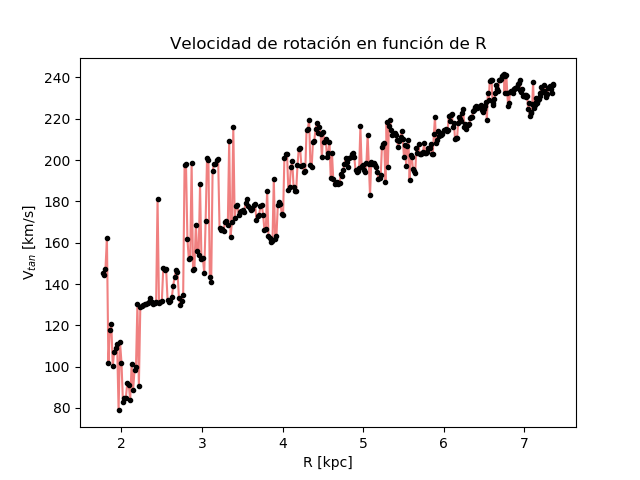
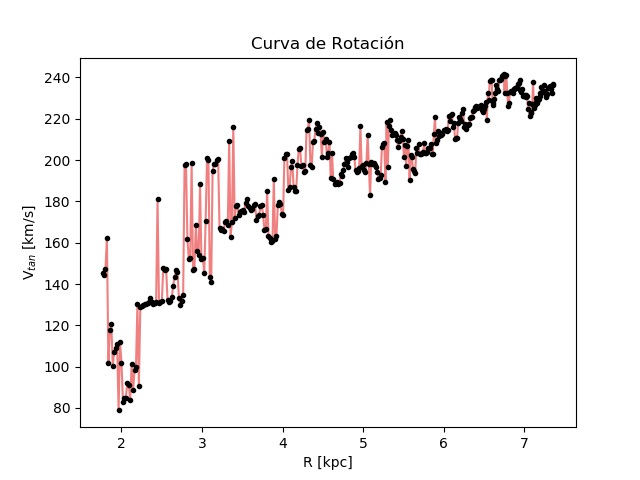
agrega 2da curva de rotación

Changed region(s): [[0.25, 0.0625, 0.75, 0.125]]

diff --git a/Tarea 2/códigoT2.py b/Tarea 2/códigoT2.py
@@ -64,12 +64,13 @@ def fmin(l,latitud,vs):
                 vs[q]=velocidad[w]    #guardamos la primera v donde T mayor a 5rms
                 break
 
-vmin=np.zeros(385)
-bvmin=np.zeros(385)
+vmin = np.zeros(385)
+bvmin = np.zeros(385)
 R = np.zeros(385)
 Z = np.zeros(385)
-R0=8.5 #kPc
-vsol=220
+R0 = 8.5 #kPc
+vsol = 220
+omegasol = vsol/R0
 
 #maximorum
 # Se recorren las longitudes y se busca la velocidad más negativa (mayor en modulo), se guarda esta
@@ -99,16 +100,29 @@ vR = np.zeros(385)
 for i in range(385):
     vR[i] = vmin[i]*(np.abs(np.sin(longitud[i]*np.pi/180.))/np.sin(longitud[i]*np.pi/180.)) + np.abs(vsol*np.sin(longitud[i]*np.pi/180.))
 
+omegaR = np.zeros(385)
+for i in range(385):
+    omegaR[i] = vR[i]/R[i] + omegasol
 '''
 CURVA DE ROTACIÓN
 '''
 plt.plot(R,vR, 'lightcoral')
 plt.plot(R,vR, 'k.')
 plt.grid
-plt.title("Velocidad de rotación en función de R")
+plt.title("Curva de Rotación")
 plt.xlabel("R [kpc]")
 plt.ylabel(r"V$_{tan}$ [km/s]")
-plt.savefig('curva.png')
+# plt.savefig('curva.png')
+plt.show()
+
+plt.plot(R, omegaR, 'lightcoral')
+plt.plot(R, omegaR, 'k.')
+plt.grid
+plt.title("Curva de Rotación")
+plt.xlabel("R [kpc]")
+plt.ylabel(r"$\omega_{tan}$ [rad/s]")
+# plt.savefig('curva2.png')
+plt.show()
 
 
 
@@ -138,14 +152,14 @@ def disco_uniforme_masapuntual(R, s, M0):
     v = np.sqrt(G*M/R)
     return v
 
-G=4.302e-6
+G = 4.302e-6   # kpc/Msun*(km**2/s**2)
 
 
-mpuntual1,covmpuntual1 = curve_fit(masa_puntual, R, vR)
-mpuntual2,covmpuntual2 = curve_fit(esfera_uniforme, R, vR)
-mpuntual3,covmpuntual3 = curve_fit(esfera_uniforme_masapuntual, R, vR)
-mpuntual4,covmpuntual4 = curve_fit(disco_uniforme, R, vR)
-mpuntual5,covmpuntual5 = curve_fit(disco_uniforme_masapuntual, R, vR)
+m1,covm1 = curve_fit(masa_puntual, R, vR)
+m2,covm2 = curve_fit(esfera_uniforme, R, vR)
+m3,covm3 = curve_fit(esfera_uniforme_masapuntual, R, vR)
+m4,covm4 = curve_fit(disco_uniforme, R, vR)
+m5,covm5 = curve_fit(disco_uniforme_masapuntual, R, vR)
 
 fig = plt.figure(figsize= (5, 10))
 ax1 = fig.add_subplot(5,1,1)
@@ -157,23 +171,23 @@ ax5 = fig.add_subplot(5,1,5, sharex = ax1)
 
 ax1.plot(R,vR,'lightcoral',label='datos')
 # ax1.plot(R,vR,'r-',label='datos')
-ax1.plot(R,masa_puntual(R,mpuntual1[0]),'k',label='masa puntual')
+ax1.plot(R,masa_puntual(R,m1[0]),'k',label='masa puntual')
 
 ax2.plot(R,vR,'lightcoral',label='datos')
 # ax2.plot(R,vR,'r-',label='datos')
-ax2.plot(R,esfera_uniforme(R,mpuntual2[0]),'k',label='esfera uniforme')
+ax2.plot(R,esfera_uniforme(R,m2[0]),'k',label='esfera uniforme')
 
 ax3.plot(R,vR,'lightcoral',label='datos')
 # ax3.plot(R,vR,'r-',label='datos')
-ax3.plot(R,esfera_uniforme_masapuntual(R,mpuntual3[0], mpuntual3[1]),'k',label='esfera uniforme mp')
+ax3.plot(R,esfera_uniforme_masapuntual(R,m3[0], m3[1]),'k',label='esfera uniforme mp')
 
 ax4.plot(R,vR,'lightcoral',label='datos')
 # ax4.plot(R,vR,'r-',label='datos')
-ax4.plot(R,disco_uniforme(R,mpuntual4[0]),'k',label='disco uniforme')
+ax4.plot(R,disco_uniforme(R,m4[0]),'k',label='disco uniforme')
 
 ax5.plot(R,vR,'lightcoral',label='datos')
 # ax5.plot(R,vR,'r-',label='datos')
-ax5.plot(R,disco_uniforme_masapuntual(R,mpuntual5[0], mpuntual5[1]),'k',label='disco uniforme mp')
+ax5.plot(R,disco_uniforme_masapuntual(R,m5[0], m5[1]),'k',label='disco uniforme mp')
 
 ax1.set_title('Ajuste de Masas')
 ax5.set_xlabel('R [kpc]')
@@ -189,7 +203,7 @@ ax3.legend()
 ax4.legend()
 ax5.legend()
 plt.subplots_adjust(wspace=0, hspace=0)
-plt.savefig('ajuste.png')
+# plt.savefig('ajuste.png')
 plt.show()
 
 '''
@@ -202,5 +216,5 @@ plt.title("Corrugación del plano en función de R")
 plt.xlabel("R [kpc]", fontsize='12')
 plt.ylabel("Z [kpc]", fontsize='12')
 plt.tick_params(labelsize='12')
-plt.savefig('corrugacion.png')
+# plt.savefig('corrugacion.png')
 plt.show()
